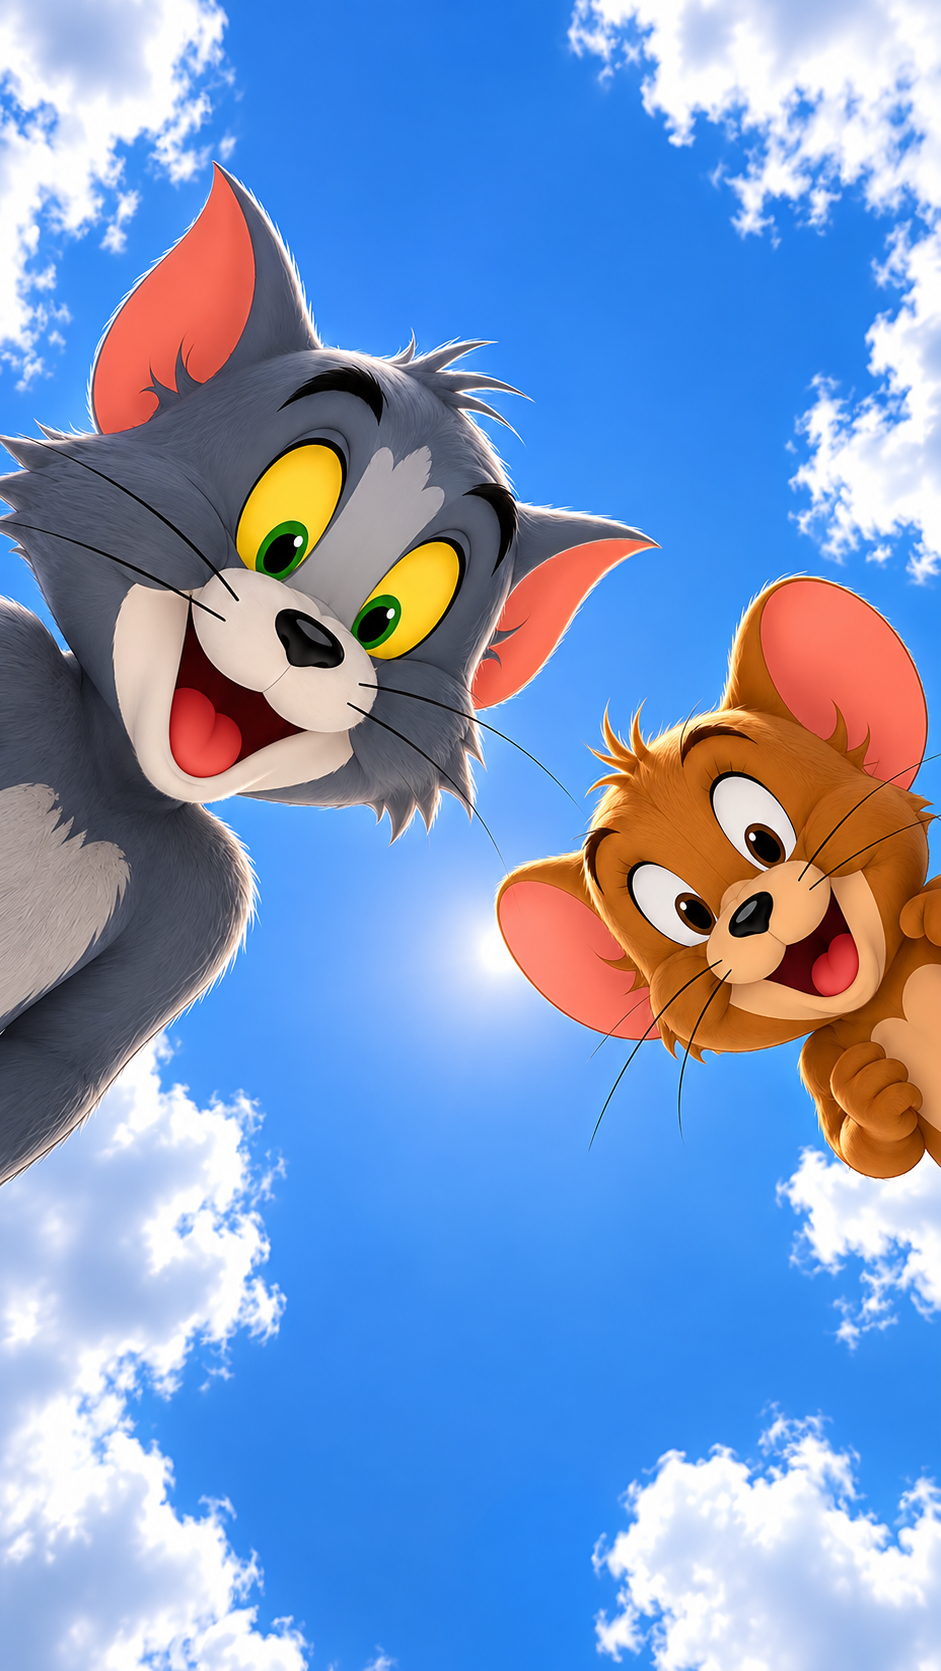
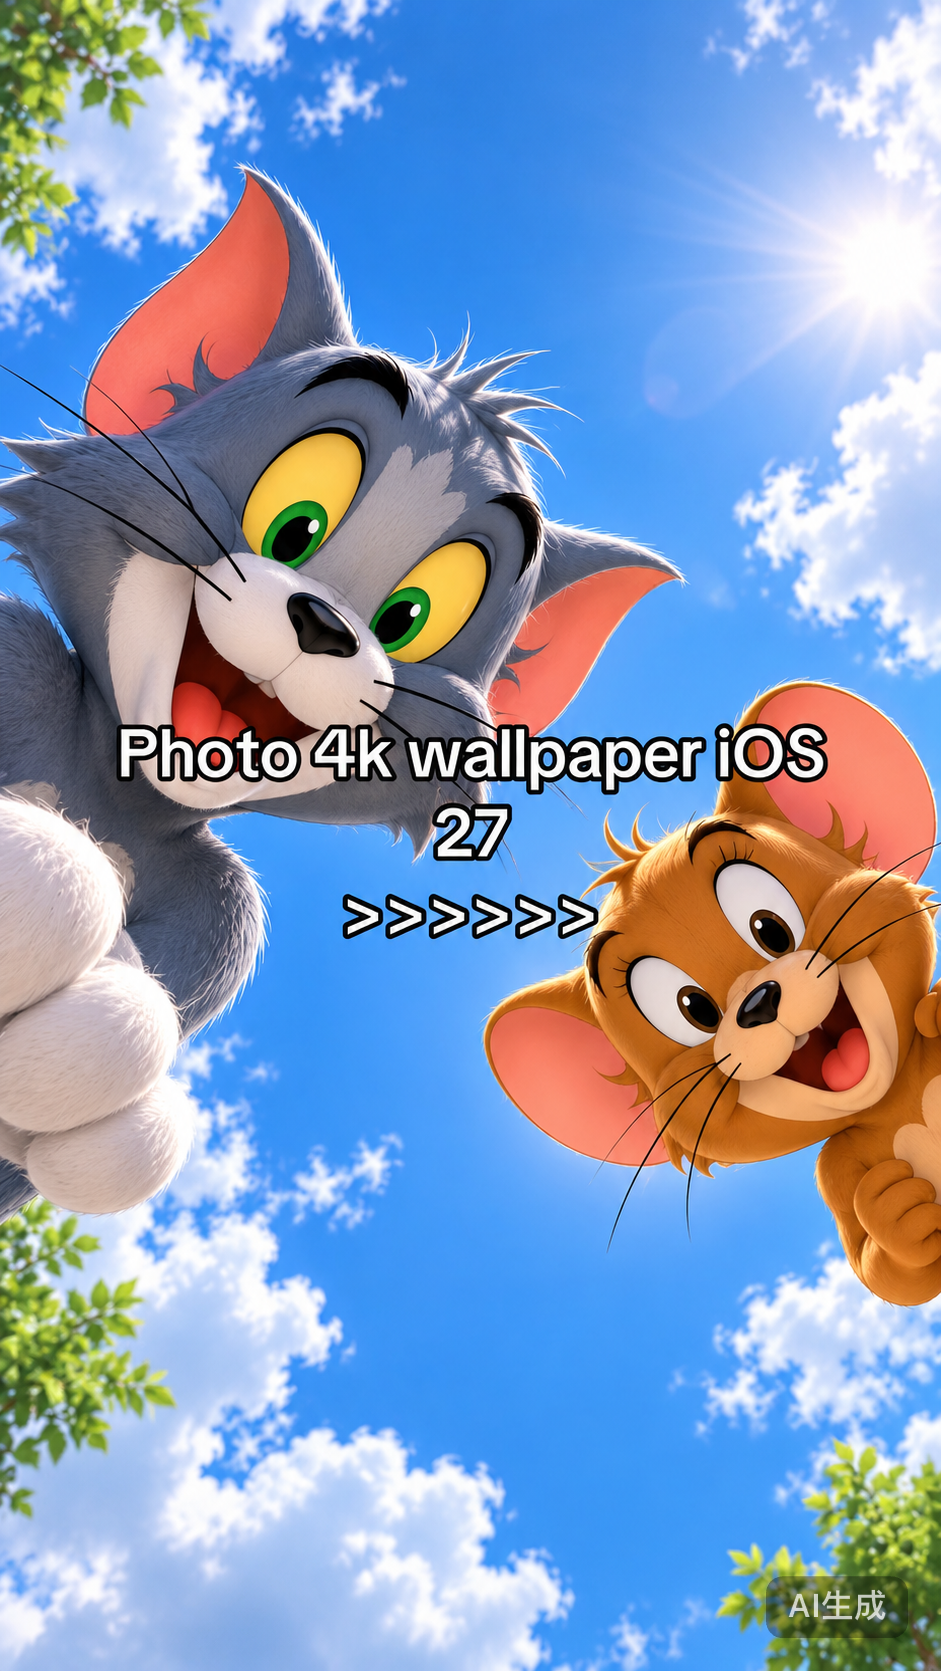
修正唯一封面为 2026-11-13 用户最终裁定的带字版
用户 11-13 明确推翻 11-12 的「无树木、无文字」版：那张是壁纸原图，
封面要用带字母的那张（选定「带字·有绿叶白爪 v2」）。
本提交基于远端 main 最新历史重新应用该修正，不改动其他协作方内容。

- 唯一封面改为素材库原版字节级副本：941x1671 RGBA PNG，3,667,249 字节
  SHA-256 ed31ea7dc4ce144999a61e10371a397c4b5079e992a2a116d6c751501b72481a
  视觉特征：四角绿叶 + 左下白色前爪 + 白字 Photo 4k wallpaper iOS 27 / >>>>>>> + 右下 AI生成 水印
- wechat-tietu-draft / wallpaper-daily-pipeline 两份 SKILL.md 同步指纹、MD5、
  识别特征、废弃清单与校验命令；11-12 无字版标为已废弃
- 本地 15 个发布组与两个 skill assets 的封面均已字节级替换并校验

diff --git a/.claude/skills/wechat-tietu-draft/SKILL.md b/.claude/skills/wechat-tietu-draft/SKILL.md
@@ -43,7 +43,7 @@ visibility: "user"
 
 | 项 | 默认值 |
 |---|---|
-| 首图 / 封面 | `assets/cover_tom_jerry.png` —— 用户 2026-11-12 **最终指定**的唯一权威封面「汤姆杰瑞俯瞰蓝天嬉笑」（蓝天白云 + 汤姆杰瑞俯看镜头嬉笑，**无树木、无文字**）；指纹与识别特征见下方「封面唯一权威版本」 |
+| 首图 / 封面 | `assets/cover_tom_jerry.png` —— 用户 2026-11-13 **最终裁定**的唯一权威封面「带字母版」（蓝天白云 + 汤姆杰瑞俯看镜头嬉笑 + 四角绿叶 + 白色前爪 + 白字 `Photo 4k wallpaper iOS 27` / `>>>>>>>` + 右下「AI生成」水印）；指纹与识别特征见下方「封面唯一权威版本」 |
 | 标题 | `【分享】TikTok爆火🔥iOS 4K高清锁屏壁纸📱`（26 字符 / 56 UTF-8 字节，已实测微信接受） |
 | 正文 | `喜欢这组壁纸的话，留个关注❤`<br>`后续持续更新更多TikTok热门🔥高清壁纸！` |
 | 空行 | 正文与标签之间固定空一行（`\n\n`） |
@@ -52,28 +52,30 @@ visibility: "user"
 封面文件独立放在 skill 的 `assets/` 下，**不受素材组重命名影响**；换封面只要替换这个文件，
 或临时用 `--cover <path>` 指定；`--no-cover` 可关闭；环境变量 `WECHAT_TIETU_COVER` 可改默认路径。
 
-### 🔒 封面唯一权威版本（用户 2026-11-12 指定，后面不得再用错）
+### 🔒 封面唯一权威版本（用户 2026-11-13 最终裁定，后面不得再用错）
 
-用户于 2026-11-12 **二次修正**：最终封面是「**没有树木 / 没有文字**」的俯瞰嬉笑版。
-所有草稿、所有批次一律只用这一张，此为硬约束，不是"尽量"：不要从素材目录挑图当封面，
+用户于 2026-11-13 明确**推翻 11-12 的「无树木、无文字」版本**，原话：
+「错了错了。这张是原版的。**封面图就是那个带字母的**。」，
+并在选项中选定「带字·有绿叶白爪（v2）」。**有字母/文字才是对的**。
+所有草稿、所有批次一律只用这一张，此为硬约束，不是"尽量"：不要从素材目录另挑图当封面，
 不要用任何归档旧版，不要重新生成 / 裁剪 / 换风格。
 
 | 项 | 值 |
 |---|---|
-| 文件 | `assets/cover_tom_jerry.png`（用户原图，字节级复制，**未转码、未裁剪**） |
-| 用户提供的图片名 | `汤姆杰瑞俯瞰蓝天嬉笑.png` |
-| 尺寸 / 模式 | **941 × 1671** / RGB / PNG |
-| 文件大小 | **1,938,082 字节**（约 1.85 MiB，< 微信 10 MB 上限，脚本原样上传不转码） |
[1 lines of base64/hex data omitted]
-| 来源 | 用户 2026-11-12 12:07 重发：`clipboard-2026-11-12T04-07-04-297Z-9719dbf8.png` |
-| 视觉识别特征 | **仰视蓝天白云**；左侧汤姆（灰、黄绿眼、粉耳）与右侧杰瑞（棕、粉耳）一起低头俯看镜头咧嘴笑；**画面里没有树木、没有绿叶、没有爪子特写、没有任何文字/水印**。是否"有树木"是判断用对没用对的最快标志 |
-| 已废弃 · 禁止再用 | `assets/_archive/cover_tom_jerry_v1_1080x1918.jpg`：1080×1918、无绿叶、左下灰爪（首批草稿误用）<br>`assets/_archive/cover_tom_jerry_v2_WITH_LEAVES_WRONG.png`：941×1671、**四角绿叶 + 白色前爪 + 白字 `Photo 4k wallpaper iOS 27` / `>>>>>>>`**（用户明确说"发错图了"，2026-11-12 第一次修正误用） |
+| 文件 | `assets/cover_tom_jerry.png`（用户原版字节级复制，**未转码、未裁剪**） |
+| 权威来源 | `E:\图片\壁纸\vexaro.4k\20261108_110501_7694083696076295445\cover.png`（用户下载的原版） |
+| 尺寸 / 模式 | **941 × 1671** / RGBA PNG（alpha 恒 255，完全不透明） |
+| 文件大小 | **3,667,249 字节**（约 3.5 MiB，< 微信 10 MB 上限，脚本原样上传不转码） |
[1 lines of base64/hex data omitted]
+| MD5 | `ab86087f5668d58e76624eaf5fe37714` |
+| 视觉识别特征 | 仰视蓝天白云；左侧汤姆（灰、黄绿眼、粉耳）与右侧杰瑞（棕、粉耳）一起低头俯看镜头咧嘴笑；**四角绿叶 + 左下白色前爪 + 白字 `Photo 4k wallpaper iOS 27` / `>>>>>>>` + 右下「AI生成」水印**。「有没有字母」是判断用对没用对的最快标志 |
+| 已废弃 · 禁止再用 | `assets/_archive/cover_tom_jerry_NO_TEXT_2026-11-12_DEPRECATED.png`：1,938,082 字节、无字无树木（11-12 误定，11-13 推翻）<br>`assets/_archive/cover_tom_jerry_v1_1080x1918.jpg`：1080×1918、带字但无树木无白爪（11-11 首批用）<br>`assets/_archive/cover_tom_jerry_v2_compressed_noAI_DEPRECATED.png`：2,162,755 字节、压缩版且无「AI生成」水印，**不是权威母版** |
 
 校验命令（换机器 / 更新 skill 后必跑）：
 
 ```bash
 sha256sum assets/cover_tom_jerry.png
-# 必须等于 2c336646...663f；不一致说明封面被换过，先找用户确认再跑草稿
+# 必须等于 ed31ea7d...81a；不一致说明封面被换过，先找用户确认再跑草稿
 ```
 
 已投草稿要换首图时，一律用 `--update <media_id>` **原地替换第一张**（复用其余旧图，不新建草稿、不重复上传），

diff --git a/.claude/skills/wallpaper-daily-pipeline/SKILL.md b/.claude/skills/wallpaper-daily-pipeline/SKILL.md
@@ -46,18 +46,22 @@ visibility: "user"
 | 每次投递 | 默认 `--per-day 4`，即 4 组 → 4 条草稿；发表仍人工 |
 | 定时任务 | **当前未启用**（用户明确选择「只跑今天，不建定时任务」）。能力已就绪，随时可启用，见下节 |
 
-### 唯一封面硬约束（2026-11-12 用户二次指定，不可替换）
+### 唯一封面硬约束（2026-11-13 用户最终裁定，不可替换）
 
 所有批次、所有草稿的首图**一律只用** `wechat-tietu-draft/assets/cover_tom_jerry.png`
-（用户提供的图片名「汤姆杰瑞俯瞰蓝天嬉笑.png」，941×1671 RGB PNG，1,938,082 字节）。
+（权威来源 `E:\图片\壁纸\vexaro.4k\20261108_110501_7694083696076295445\cover.png` 的字节级副本，
+941×1671 RGBA PNG，3,667,249 字节）。
 
[1 lines of base64/hex data omitted]
-- 视觉特征：**仰视蓝天白云**，左侧汤姆与右侧杰瑞一起低头俯看镜头咧嘴笑；
-  **画面没有树木 / 绿叶、没有爪子特写、没有任何文字或水印**——「有没有树木」是最快的判断标志
[1 lines of base64/hex data omitted]
+- 视觉特征：仰视蓝天白云，左侧汤姆与右侧杰瑞低头俯看镜头嬉笑；
+  **四角绿叶 + 左下白色前爪 + 白字 `Photo 4k wallpaper iOS 27` / `>>>>>>>` + 右下「AI生成」水印**。
+  **「有没有字母/文字」是最快判断标志 —— 有字才对**
+- 2026-11-13 用户**推翻 11-12 的「无树木、无文字」版**：那张是原版壁纸，不是封面
 - 换机器或更新 skill 后先核对再用：`sha256sum <skills>/wechat-tietu-draft/assets/cover_tom_jerry.png`
-- **禁止**替换为素材目录里的 `cover.*` 或 `_archive/` 下任何旧版；不得裁剪、重新生成
-- 已废弃：`_archive/cover_tom_jerry_v1_1080x1918.jpg`（灰爪）、
-  `_archive/cover_tom_jerry_v2_WITH_LEAVES_WRONG.png`（四角绿叶 + 白字水印）
+- **禁止**替换为任何归档旧版；不得裁剪、重新生成
+- 已废弃：`_archive/cover_tom_jerry_NO_TEXT_2026-11-12_DEPRECATED.png`（无字版）、
+  `_archive/cover_tom_jerry_v1_1080x1918.jpg`（带字但无树木）、
+  `_archive/cover_tom_jerry_v2_compressed_noAI_DEPRECATED.png`（压缩版无水印，非母版）
 - 换已投草稿的首图：用 `tietu_draft.py --update <media_id>` **原地替换第一张**，复用其余旧图，不新建草稿
 
 ## 为什么 batch 不直接调用 `wallpaper-batch-splitter`
